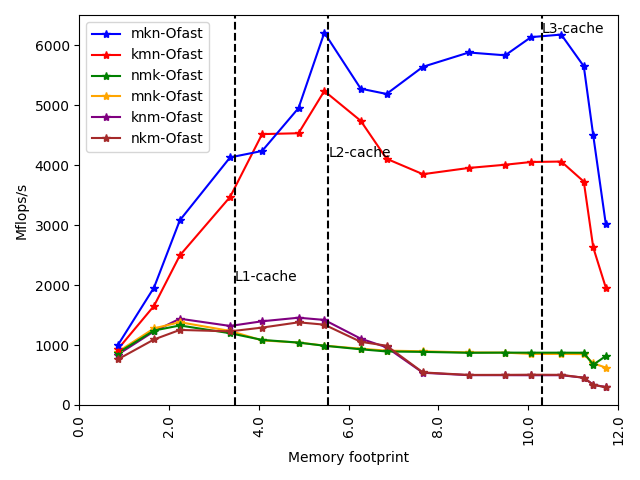
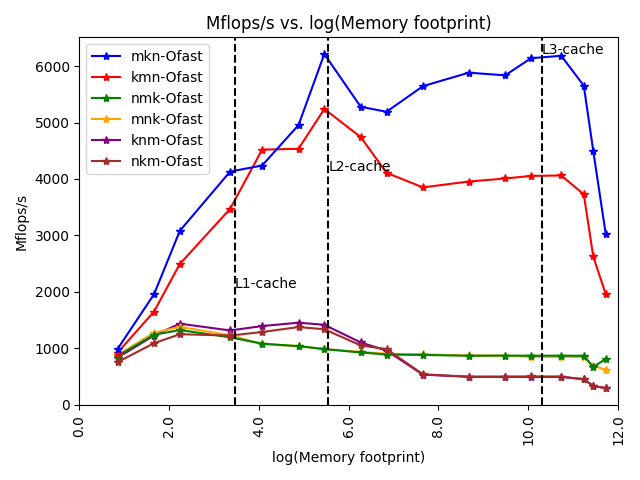
adding blocking stuff

diff --git a/assignment1/run_data/plot_block.py b/assignment1/run_data/plot_block.py
@@ -1,0 +1,41 @@
+import pandas as pd
+import matplotlib.pyplot as plt
+import numpy as np
+import os
+
+
+MAT_SIZE = 2048
+file_name = "blk-fast-unroll_matmult_c.gcc.dat"
+
+
+data = pd.read_csv(file_name, header=None, delim_whitespace=True)
+data.drop([0, 2, 3], axis=1, inplace=True)
+data.columns = [
+    "Mflop/s",
+    "blocksize"
+]
+
+fig, ax = plt.subplots()
+
+ax.plot(np.log(data["blocksize"]), data["Mflop/s"], marker="*", label=f"Mflops/s")
+
+ax.axvline(x=np.log(32), ymin=0, ymax=1, color = 'black', linestyle="--")
+ax.text(x=np.log(32), y=max(data["Mflop/s"]) * (1/3), s="L1-cache", c="black")
+
+ax.axvline(x=np.log(256), ymin=0, ymax=1, color = 'black', linestyle="--")
+ax.text(x=np.log(256), y=max(data["Mflop/s"]) * (2/3), s="L2-cache")
+
+ax.set_xlabel("log(blocksize)")
+ax.set_ylabel("Mflops/s")
+ax.set_ylim(0, None)
+ax.set_xticklabels(ax.get_xticks(), rotation = 90)
+ax.set_title("Mflops/s vs. log(blocksize)")
+
+ax.legend()
+plt.tight_layout()
+
+plt.savefig(f"block-MFLOPS-comparison.png")
+
+
+
+

diff --git a/assignment1/run_data/plot_memory.py b/assignment1/run_data/plot_memory.py
@@ -37,6 +37,8 @@ perm_color_dict = {
 
 opt_options = []
 for f in os.listdir():
+    if "blk" in f:
+        continue
     if f.endswith(".dat"):
         opt = f.split("_")[1]
         if opt not in opt_options:
@@ -50,6 +52,8 @@ for opt in opt_options:
     y_max_new = 0
 
     for f in os.listdir():
+        if "blk" in f:
+            continue
         if f.endswith("dat") and opt in f:
             perm = f.split("_")[0]
 
@@ -69,7 +73,7 @@ for opt in opt_options:
     ax.text(x=np.log(30000), y=y_max_new, s="L3-cache")
     
 
-    ax.set_xlabel("Memory footprint")
+    ax.set_xlabel("log(Memory footprint)")
     ax.set_ylabel("Mflops/s")
     ax.set_xlim(0, 12)
     ax.set_ylim(0, None)
@@ -88,6 +92,7 @@ for opt in opt_options:
 
 
     ax.legend(ordering_handles, ordering_labels)
+    ax.set_title("Mflops/s vs. log(Memory footprint)")
     plt.tight_layout()
 
     plt.savefig(f"{opt}-MFLOPS-comparison.png")
